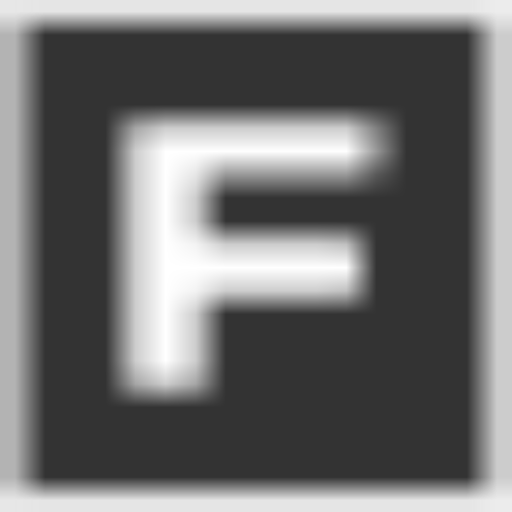
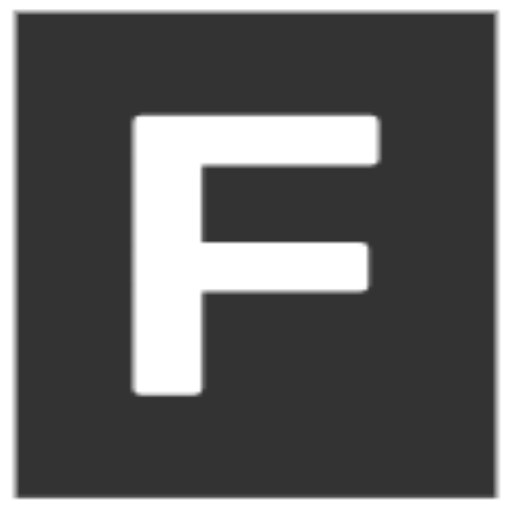
update

diff --git a/script.js b/script.js
@@ -197,7 +197,6 @@ function printMapaData(dowpdown_item) {
     /* title_selected_item = dowpdown_item.target.text; */
     /* TITLE SECTION */
     title_selected_item = dowpdown_item.target.dataset.title;
-    /* console.log(`title_selected_item`, title_selected_item) */
 
     var classnames = dowpdown_item.target.parentNode.className;
 
@@ -230,65 +229,34 @@ function printMapaData(dowpdown_item) {
     document.getElementById(item_dropdown).classList.add('active');
   }
 
-    let url = encodeURIComponent(window.location.href);
-    let url2 = encodeURIComponent(window.location.hostname);
-
-    let meta_title_ = document.querySelector('title')
-    let meta_title = document.querySelector('#meta_title_primary')
-    let meta_title_og = document.querySelector('#meta_title_og')
-
-    let meta_desc = document.querySelector('#meta_description_primary')
-    let meta_desc_og = document.querySelector('#meta_description_og')
-
-    let title = '';
-    let title_text = '';
-    let descrip = 'La investigación "Situación del periodismo local en la Argentina" presenta datos recopilados entre diciembre de 2020 y mayo de 2021. La información aquí disponible confiere una base objetiva para la comprensión y el debate del ejercicio del oficio, y de las libertades de prensa y de expresión en el país.';
-
-    if(index_map === 0) {
-      title_text = "Fopea | La precariedad acorrala a los periodistas profesionales";
-      title = encodeURIComponent(title_text);
-
-      meta_title_.text = title_text;
-      meta_title.content = title_text;
-      meta_title_og.content = title_text;
-
-      document.getElementById('titulo-principal').textContent = "La precariedad acorrala a los periodistas profesionales";
-      document.getElementById('desc-principal').textContent = descrip;
-
-    } else if(index_map === 1) {
-      title_text = "Fopea | Ellas lideran 14 de cada 100 entidades periodísticas locales";
-
-      title = encodeURIComponent("Fopea | Ellas lideran 14 de cada 100 entidades periodísticas locales");
-
-      meta_title_.text = title_text;
-      meta_title.content = title_text;
-      meta_title_og.content = title_text;
-
-      document.getElementById('titulo-principal').textContent = "Ellas lideran 14 de cada 100 entidades periodísticas locales";
-      document.getElementById('desc-principal').textContent = descrip;
-
-    }
-    /* SET META DESCRIPTION */
-    meta_desc.content = descrip;
-    meta_desc_og.content = descrip;
-
-  setTimeout(()=>{
-
-    /* ICONOS GRISES */
-    document.getElementById('grey_btn0').href = "whatsapp://send?text=" + title + " " + url2;
-    document.getElementById('grey_btn1').href = "https://www.instagram.com/fopea/";
-    document.getElementById('grey_btn2').href = "https://twitter.com/FOPEA";
-    document.getElementById('grey_btn3').href = "https://www.facebook.com/fopea";
-    document.getElementById('grey_btn4').href = "https://www.linkedin.com/company/fopea";
-    /* ICONOS NEGROS */
-    document.getElementById('btn0').href = "whatsapp://send?text=" + title + " " + url;
-    // document.getElementById('btn1').href = "https://www.instagram.com/?url=" + url;
-    document.getElementById('btn1').href = "mailto:?subject="+title+"&body="+title+": " + url;
-    document.getElementById('btn2').href = "https://twitter.com/intent/tweet?text="+title+"&url=" + url + "&hashtags=#fopea";
-    document.getElementById('btn3').href = "https://www.facebook.com/sharer/sharer.php?u=" + url;
-    document.getElementById('btn4').href = "https://www.linkedin.com/sharing/share-offsite/?url=" + url;
-
-  }, 1000);
+    setTimeout(()=>{
+      let url = encodeURIComponent(window.location.href);
+      let url2 = encodeURIComponent(window.location.hostname);
+  
+      let title = '';
+      if(index_map === 0){
+        title = encodeURIComponent("Fopea | La precariedad acorrala a los periodistas profesionales");
+        document.getElementById('titulo-principal').textContent = "La precariedad acorrala a los periodistas profesionales";
+        document.getElementById('desc-principal').textContent = "La investigación “Situación del periodismo local en la Argentina” presenta datos recopilados entre diciembre de 2020 y mayo de 2021. La información aquí disponible confiere una base objetiva para la comprensión y el debate del ejercicio del oficio, y de las libertades de prensa y de expresión en el país.";
+      }else if(index_map === 1){
+        title = encodeURIComponent("Fopea | Ellas lideran 14 de cada 100 entidades periodísticas locales");
+        document.getElementById('titulo-principal').textContent = "Ellas lideran 14 de cada 100 entidades periodísticas locales";
+        document.getElementById('desc-principal').textContent = "La investigación “Situación del periodismo local en la Argentina” presenta datos recopilados entre diciembre de 2020 y mayo de 2021. La información aquí disponible confiere una base objetiva para la comprensión y el debate del ejercicio del oficio, y de las libertades de prensa y de expresión en el país.";
+      }
+      /* ICONOS GRISES */
+      document.getElementById('grey_btn0').href = "whatsapp://send?text=" + title + " " + url2;
+      document.getElementById('grey_btn1').href = "https://www.instagram.com/fopea/";
+      document.getElementById('grey_btn2').href = "https://twitter.com/FOPEA";
+      document.getElementById('grey_btn3').href = "https://www.facebook.com/fopea";
+      document.getElementById('grey_btn4').href = "https://www.linkedin.com/company/fopea";
+      /* ICONOS NEGROS */
+      document.getElementById('btn0').href = "whatsapp://send?text=" + title + " " + url;
+      // document.getElementById('btn1').href = "https://www.instagram.com/?url=" + url;
+      document.getElementById('btn1').href = "mailto:?subject="+title+"&body="+title+": " + url;
+      document.getElementById('btn2').href = "https://twitter.com/intent/tweet?text="+title+"&url=" + url + "&hashtags=#fopea";
+      document.getElementById('btn3').href = "https://www.facebook.com/sharer/sharer.php?u=" + url;
+      document.getElementById('btn4').href = "https://www.linkedin.com/sharing/share-offsite/?url=" + url;
+    },1000);
 
   /* console.log(`dowpdown_item`, dowpdown_item) */
 

diff --git a/index.html b/index.html
@@ -5,20 +5,14 @@
     <meta http-equiv="X-UA-Compatible" content="IE=edge">
     <meta name="viewport" content="width=device-width, initial-scale=1.0">
     <meta name="x-apple-disable-message-reformatting">
-    <!-- <meta property='og:title' content='Mujeres en dirección de medios | Las directoras encabezan 354 (14,4%) de las 2.464 organizaciones encuestadas. Tierra del Fuego exhibe proporcionalmente el mayor número de lideresas periodísticas (37,5%) mientras que en el otro extremo de la tabla se sitúa Entre Ríos (5,8%).'/> -->
-
-    <title>FOPEA</title>
-    <meta id="meta_title_primary" name="title" content="load title">
-    <meta id="meta_description_primary" name="description" content="load descrip" />
-
-    <meta id="meta_title_og" property='og:title' content='load title og'/>
-    <meta id="meta_description_og" property='og:description' content='load desc og'/>
+    <meta property='og:title' content='Mujeres en dirección de medios | Las directoras encabezan 354 (14,4%) de las 2.464 organizaciones encuestadas. Tierra del Fuego exhibe proporcionalmente el mayor número de lideresas periodísticas (37,5%) mientras que en el otro extremo de la tabla se sitúa Entre Ríos (5,8%).'/>
 
     <!--[if !mso]><!-->
     <meta http-equiv="X-UA-Compatible" content="IE=edge" />
     <!--<![endif]-->
+    <title>FOPEA</title>
 
-    <link rel="icon" type="image/ico" href="./favicon.ico">
+    <link rel="icon" type="image/png" href="./favicon.ico">
     <link rel="apple-touch-icon" sizes="180x180" href="./apple-touch-icon.png">
     <link rel="icon" type="image/png" sizes="32x32" href="./favicon-32x32.png">
     <link rel="icon" type="image/png" sizes="16x16" href="./favicon-16x16.png">
@@ -89,8 +83,8 @@
                 </div>
             </div>
             <div class="row text-center mx-auto justify-content-center" id="bannerTitle">
-                <h1 class="display-0 w-90 fw-normal ff-bitter" id="titulo-principal">
-                    <!-- <span class="d-block" id=""></span> -->
+                <h1 class="display-0 w-90 fw-normal ff-bitter">
+                    <span class="d-block" id="titulo-principal"></span>
                 </h1>
                 <p class="text-center display-7 fw-light mt-3 ff-bitter" id="desc-principal"></p>
             </div>
@@ -471,7 +465,6 @@
             </div>
 
             <div class="row text-center mx-auto mb-5 px-0" id="content-title-item-selected">
-
 <!--                <h2 class="ff-bitter-light display-4">Relación de dependencia</h2>-->
                 <h2 class="ff-bitter-light display-4">Mujeres en la dirección de los medios</h2>
                 <p class="w-91 mx-auto text-center display-9 mt-4 ff-roboto-light">

diff --git a/texto_info_after_map/css/mujeres_direcion_medios.css b/texto_info_after_map/css/mujeres_direcion_medios.css
@@ -90,10 +90,6 @@ hr.double-top {
     .br-hide-mobile {
         display: none;
     }
-
-/*     #content-info-general #content-info-body #content-info-text .content-both-mobile .data-float-right {
-        margin: 3rem auto;
-    } */
 }
 
 @media (max-width: 600px) {
